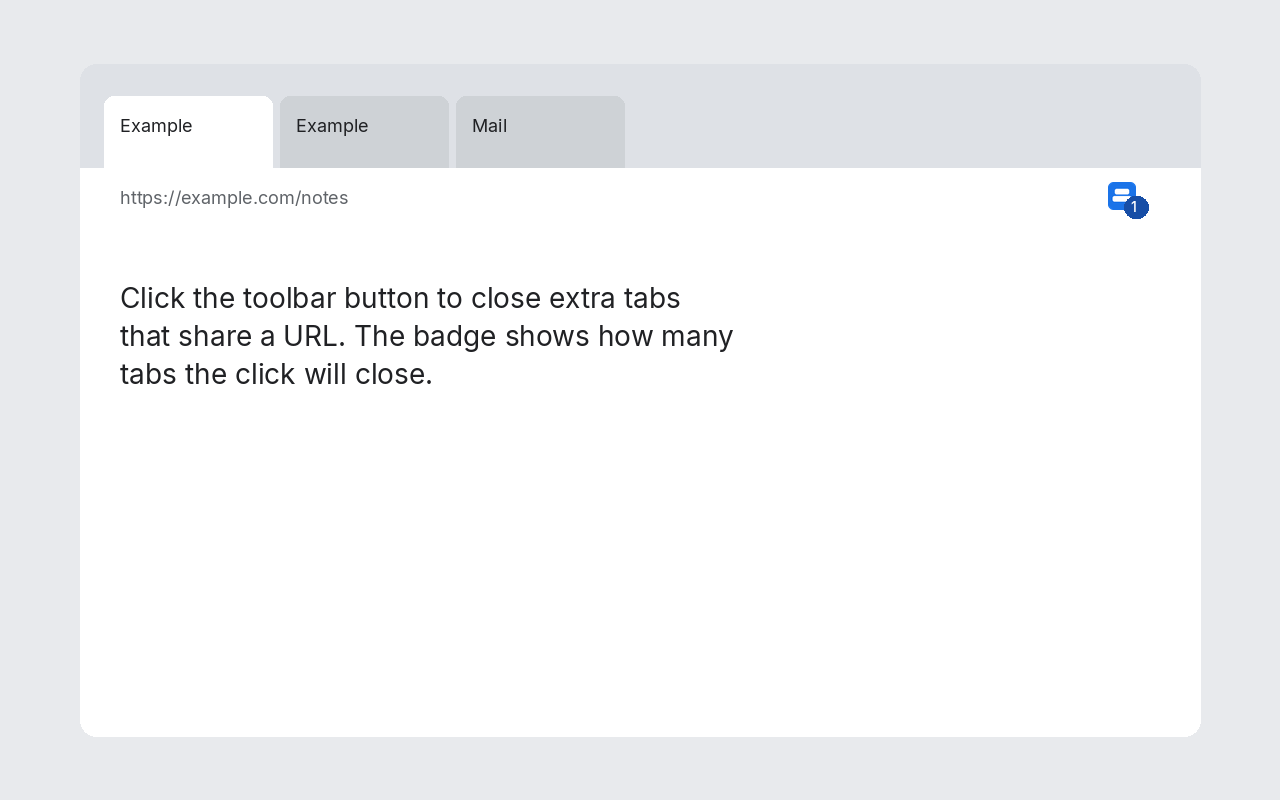
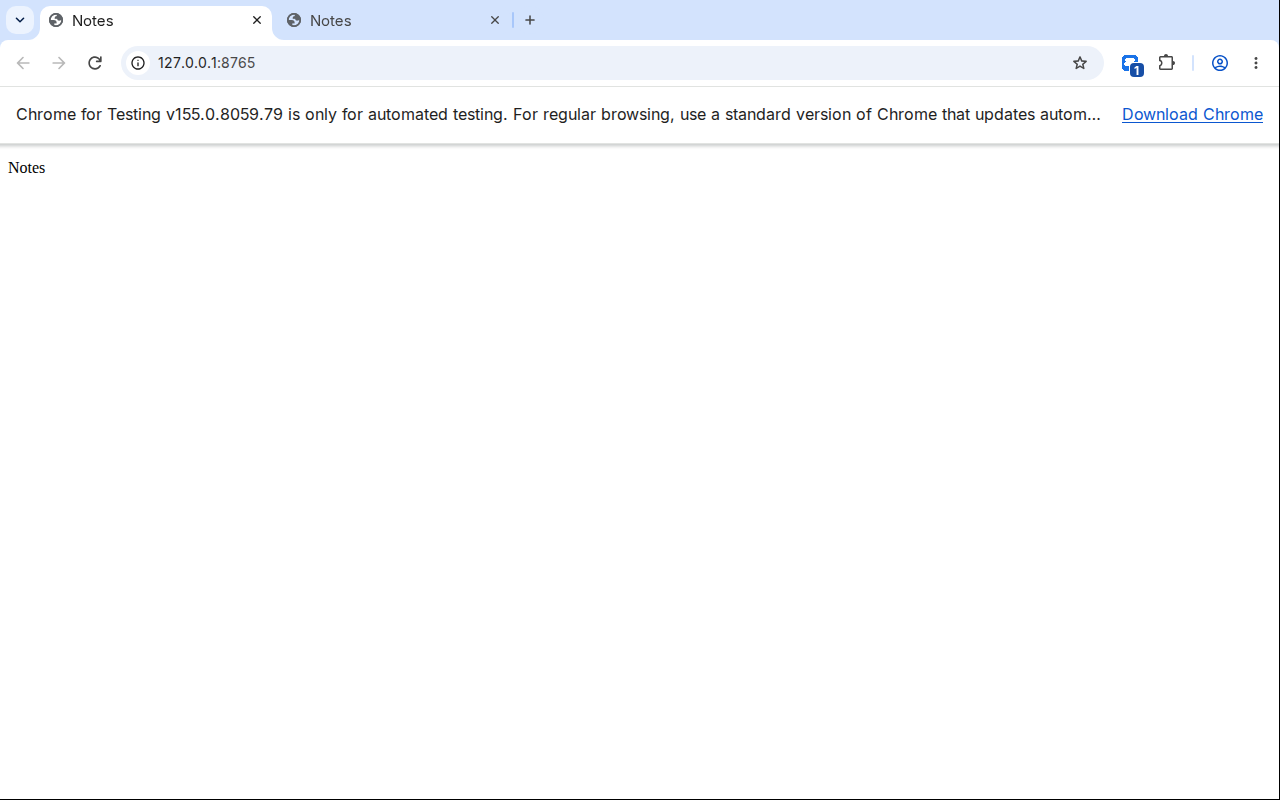
Replace the drawn store screenshot with a Chrome capture.
capture_screenshot.py loads the extension in Chrome for Testing and saves the window. The listing image shows two tabs at the same URL and a toolbar badge of 1. The second image is that window after the click.

diff --git a/duplicate-tabs/capture_screenshot.py b/duplicate-tabs/capture_screenshot.py
@@ -1,0 +1,234 @@
+#!/usr/bin/env python3
+"""Capture the store screenshots from a real Chrome window.
+
+This starts Xvfb at 1280 by 800, serves a page, and loads this directory
+with Chrome for Testing. store/screenshot.png is that window with two tabs
+at the same URL and the toolbar badge. store/screenshot-closed.png is the
+same window after the toolbar click.
+
+Branded Chrome ignores --load-extension. Set CHROME_BIN to a Chrome for
+Testing binary. The script also needs Xvfb, ImageMagick's import, and xdotool.
+"""
+
+from __future__ import annotations
+
+import hashlib
+import json
+import os
+import signal
+import subprocess
+import time
+from pathlib import Path
+
+from PIL import Image
+
+HERE = Path(__file__).resolve().parent
+PAGE = "<!DOCTYPE html><html><head><meta charset=\"utf-8\"><title>Notes</title></head><body><p>Notes</p></body></html>\n"
+
+
+def extension_id(path: Path) -> str:
+    digest = hashlib.sha256(str(path).encode()).hexdigest()
+    return "".join(chr(ord("a") + int(char, 16)) for char in digest[:32])
+
+
+def find_chrome() -> str:
+    chosen = os.environ.get("CHROME_BIN", "")
+    if chosen:
+        return chosen
+    roots = [Path("/tmp/chrome-for-testing"), Path.home() / "chrome"]
+    for root in roots:
+        if not root.is_dir():
+            continue
+        for path in sorted(root.glob("**/chrome")):
+            if path.is_file() and os.access(path, os.X_OK):
+                return str(path)
+    raise SystemExit("Set CHROME_BIN to a Chrome for Testing binary. Branded Chrome ignores --load-extension.")
+
+
+def start(args: list[str], env: dict[str, str] | None = None) -> subprocess.Popen:
+    return subprocess.Popen(
+        args,
+        env=env,
+        stdout=subprocess.DEVNULL,
+        stderr=subprocess.DEVNULL,
+        start_new_session=True,
+    )
+
+
+def stop(proc: subprocess.Popen | None) -> None:
+    if proc is None or proc.poll() is not None:
+        return
+    os.killpg(proc.pid, signal.SIGTERM)
+    deadline = time.time() + 5
+    while time.time() < deadline and proc.poll() is None:
+        time.sleep(0.1)
+    if proc.poll() is None:
+        os.killpg(proc.pid, signal.SIGKILL)
+        proc.wait(timeout=5)
+
+
+def chrome_args(chrome: str, profile: Path, urls: list[str]) -> list[str]:
+    return [
+        chrome,
+        "--no-sandbox",
+        "--disable-gpu",
+        "--disable-dev-shm-usage",
+        "--no-first-run",
+        "--no-default-browser-check",
+        "--disable-sync",
+        "--disable-background-networking",
+        "--disable-component-update",
+        "--window-position=0,0",
+        "--window-size=1280,800",
+        f"--user-data-dir={profile}",
+        f"--load-extension={HERE}",
+        f"--disable-extensions-except={HERE}",
+        *urls,
+    ]
+
+
+def wait_for_window(display: str) -> None:
+    deadline = time.time() + 15
+    while time.time() < deadline:
+        result = subprocess.run(
+            ["xwininfo", "-root", "-tree"],
+            env={**os.environ, "DISPLAY": display},
+            check=False,
+            capture_output=True,
+            text=True,
+        )
+        if "Google Chrome for Testing" in result.stdout or "Google Chrome" in result.stdout:
+            return
+        time.sleep(0.2)
+    raise SystemExit("Chrome did not open a window")
+
+
+def blue_clusters(image: Image.Image) -> list[tuple[int, int, int, int]]:
+    image = image.convert("RGB")
+    points: list[tuple[int, int]] = []
+    for y in range(45, 85):
+        for x in range(1000, 1240):
+            red, green, blue = image.getpixel((x, y))[:3]
+            if blue > 150 and red < 90 and 40 < green < 130:
+                points.append((x, y))
+    points.sort()
+    groups: list[list[tuple[int, int]]] = []
+    for point in points:
+        if not groups or point[0] - groups[-1][-1][0] > 15:
+            groups.append([point])
+        else:
+            groups[-1].append(point)
+    boxes = []
+    for group in groups:
+        xs = [point[0] for point in group]
+        ys = [point[1] for point in group]
+        boxes.append((min(xs), min(ys), max(xs), max(ys)))
+    return boxes
+
+
+def wait_for_badge(display: str) -> tuple[int, int]:
+    deadline = time.time() + 10
+    while time.time() < deadline:
+        path = Path("/tmp/duplicate-tabs-probe.png")
+        grab(display, path)
+        image = Image.open(path)
+        clusters = [box for box in blue_clusters(image) if box[2] - box[0] < 30]
+        if clusters:
+            left, top, right, bottom = clusters[0]
+            return (left + right) // 2, (top + bottom) // 2
+        time.sleep(0.3)
+    raise SystemExit("the toolbar badge did not appear")
+
+
+def grab(display: str, path: Path) -> None:
+    subprocess.run(
+        ["import", "-window", "root", "-depth", "8", f"png24:{path}"],
+        env={**os.environ, "DISPLAY": display},
+        check=True,
+    )
+
+
+def save_rgb(display: str, path: Path) -> None:
+    raw = path.with_suffix(".raw.png")
+    grab(display, raw)
+    image = Image.open(raw).convert("RGB")
+    if image.size != (1280, 800):
+        raise SystemExit(f"{path.name} is {image.size}, want 1280x800")
+    image.save(path, "PNG")
+    raw.unlink()
+
+
+def move(display: str, x: int, y: int, click: bool = False) -> None:
+    args = ["xdotool", "mousemove", str(x), str(y)]
+    if click:
+        args.append("click")
+        args.append("1")
+    subprocess.run(args, env={**os.environ, "DISPLAY": display}, check=True)
+
+
+def pin_extension(profile: Path, extension: str) -> None:
+    prefs_path = profile / "Default" / "Preferences"
+    prefs = json.loads(prefs_path.read_text())
+    extensions = prefs.setdefault("extensions", {})
+    extensions["pinned_extensions"] = [extension]
+    prefs_path.write_text(json.dumps(prefs))
+
+
+def launch_chrome(chrome: str, profile: Path, display: str, urls: list[str]) -> subprocess.Popen:
+    env = {**os.environ, "DISPLAY": display}
+    proc = subprocess.Popen(
+        chrome_args(chrome, profile, urls),
+        env=env,
+        stdout=subprocess.DEVNULL,
+        stderr=subprocess.DEVNULL,
+        start_new_session=True,
+    )
+    return proc
+
+
+def main() -> None:
+    chrome = find_chrome()
+    extension = extension_id(HERE)
+    store = HERE / "store"
+    store.mkdir(exist_ok=True)
+    page_dir = Path("/tmp/duplicate-tabs-page")
+    page_dir.mkdir(exist_ok=True)
+    (page_dir / "index.html").write_text(PAGE)
+    profile = Path("/tmp/duplicate-tabs-chrome-profile")
+    if profile.exists():
+        subprocess.run(["rm", "-rf", str(profile)], check=True)
+    profile.mkdir()
+    display = ":89"
+    url = "http://127.0.0.1:8765/"
+    xvfb = None
+    server = None
+    browser = None
+    try:
+        xvfb = start(["Xvfb", display, "-screen", "0", "1280x800x24", "-ac"])
+        time.sleep(0.4)
+        server = start(["python3", "-m", "http.server", "8765", "--bind", "127.0.0.1", "--directory", str(page_dir)])
+        browser = launch_chrome(chrome, profile, display, [url])
+        wait_for_window(display)
+        time.sleep(2)
+        stop(browser)
+        browser = None
+        pin_extension(profile, extension)
+        browser = launch_chrome(chrome, profile, display, [url, url])
+        wait_for_window(display)
+        badge_x, badge_y = wait_for_badge(display)
+        move(display, 400, 500)
+        time.sleep(0.4)
+        save_rgb(display, store / "screenshot.png")
+        move(display, badge_x, badge_y, click=True)
+        time.sleep(0.8)
+        move(display, 400, 500)
+        time.sleep(0.6)
+        save_rgb(display, store / "screenshot-closed.png")
+    finally:
+        stop(browser)
+        stop(server)
+        stop(xvfb)
+
+
+if __name__ == "__main__":
+    main()

diff --git a/duplicate-tabs/render_assets.py b/duplicate-tabs/render_assets.py
@@ -1,18 +1,17 @@
 #!/usr/bin/env python3
-"""Render toolbar icons, the store icon, and the 1280x800 screenshot.
+"""Render toolbar icons and the store icon.
 
 Requires Pillow. The checked-in PNGs are the files the zip and the
-dashboard listing use. Run this only to regenerate them.
+dashboard listing use. The store screenshots are captures of Chrome.
+Run capture_screenshot.py to replace those.
 """
 
 import os
 
-from PIL import Image, ImageDraw, ImageFont
+from PIL import Image, ImageDraw
 
 HERE = os.path.dirname(os.path.abspath(__file__))
 ICON_SIZES = (16, 32, 48, 128)
-FONT = "/usr/share/fonts/truetype/macos/Inter-Regular.ttf"
-FONT_MEDIUM = "/usr/share/fonts/truetype/macos/Inter-Medium.ttf"
 BLUE = (26, 115, 232, 255)
 WHITE = (255, 255, 255, 255)
 
@@ -50,59 +49,12 @@ def render_store_icon():
     return image
 
 
-def render_screenshot(icon):
-    image = Image.new("RGB", (1280, 800), (232, 234, 237))
-    draw = ImageDraw.Draw(image)
-    window = (80, 64, 1200, 736)
-    draw.rounded_rectangle(window, radius=16, fill=(255, 255, 255))
-    draw.rounded_rectangle((80, 64, 1200, 168), radius=16, fill=(222, 225, 230))
-    draw.rectangle((80, 140, 1200, 168), fill=(222, 225, 230))
-
-    titles = ("Example", "Example", "Mail")
-    active = 0
-    font = ImageFont.truetype(FONT, 18)
-    x = 104
-    for index, title in enumerate(titles):
-        width = 168
-        box = (x, 96, x + width, 168)
-        fill = (255, 255, 255) if index == active else (206, 210, 214)
-        draw.rounded_rectangle(box, radius=10, fill=fill)
-        draw.rectangle((x, 140, x + width, 168), fill=fill)
-        draw.text((x + 16, 114), title, fill=(32, 33, 36), font=font)
-        x += width + 8
-
-    draw.rectangle((80, 168, 1200, 228), fill=(255, 255, 255))
-    draw.text((120, 186), "https://example.com/notes", fill=(95, 99, 104), font=font)
-
-    thumb = icon.resize((28, 28), Image.Resampling.LANCZOS)
-    image.paste(thumb, (1108, 182), thumb)
-    badge_font = ImageFont.truetype(FONT_MEDIUM, 14)
-    badge = (1124, 196, 1148, 218)
-    draw.rounded_rectangle(badge, radius=11, fill=(23, 78, 166))
-    draw.text((1131, 198), "1", fill=(255, 255, 255), font=badge_font)
-
-    body = ImageFont.truetype(FONT, 28)
-    draw.text(
-        (120, 280),
-        "Click the toolbar button to close extra tabs\nthat share a URL. The badge shows how many\ntabs the click will close.",
-        fill=(32, 33, 36),
-        font=body,
-        spacing=10,
-    )
-    return image
-
-
 def main():
     icons_dir = os.path.join(HERE, "icons")
     os.makedirs(icons_dir, exist_ok=True)
     os.makedirs(os.path.join(HERE, "store"), exist_ok=True)
-    icon128 = None
     for size in ICON_SIZES:
-        icon = render_icon(size)
-        icon.save(os.path.join(icons_dir, f"{size}.png"))
-        if size == 128:
-            icon128 = icon
-    render_screenshot(icon128).save(os.path.join(HERE, "store", "screenshot.png"), "PNG")
+        render_icon(size).save(os.path.join(icons_dir, f"{size}.png"))
     render_store_icon().save(os.path.join(HERE, "store", "icon-128.png"))
 
 

diff --git a/duplicate-tabs/README.md b/duplicate-tabs/README.md
@@ -35,11 +35,19 @@ npm test
 
 `node chrome_smoke.js` loads this directory in headless Chrome, opens two tabs with the same URL, and checks that the badge matches the close count. It then runs the toolbar action and checks that the badge clears. Chrome 154 or newer is required, because the script uses the DevTools `Extensions.loadUnpacked` and `Extensions.triggerAction` commands.
 
-Regenerate the icons and the screenshot with Pillow:
+Regenerate the icons with Pillow:
 
 ```bash
 python3 render_assets.py
 ```
+
+Replace the store screenshots by running Chrome and capturing the window:
+
+```bash
+CHROME_BIN=/path/to/chrome-for-testing python3 capture_screenshot.py
+```
+
+`capture_screenshot.py` needs Xvfb, ImageMagick's `import`, and `xdotool`. Branded Chrome ignores `--load-extension`, so the binary has to be Chrome for Testing. `store/screenshot.png` is that window with two tabs at the same URL and the toolbar badge. `store/screenshot-closed.png` is the same window after the click.
 
 ## Store listing
 
@@ -48,7 +56,8 @@ Upload `duplicate-tabs.zip` from `bash pack.sh duplicate-tabs.zip` if you are su
 | File | Use |
 | --- | --- |
 | `store/icon-128.png` | Store icon, 128 by 128. The mark is 96 by 96, centered, with 16 pixels of padding. |
-| `store/screenshot.png` | Screenshot, 1280 by 800, 24-bit RGB, no alpha. |
+| `store/screenshot.png` | Listing screenshot, 1280 by 800, 24-bit RGB. A capture of Chrome with two tabs at the same URL and the toolbar badge. |
+| `store/screenshot-closed.png` | The same window after the toolbar click. |
 
 | Field | Value |
 | --- | --- |
